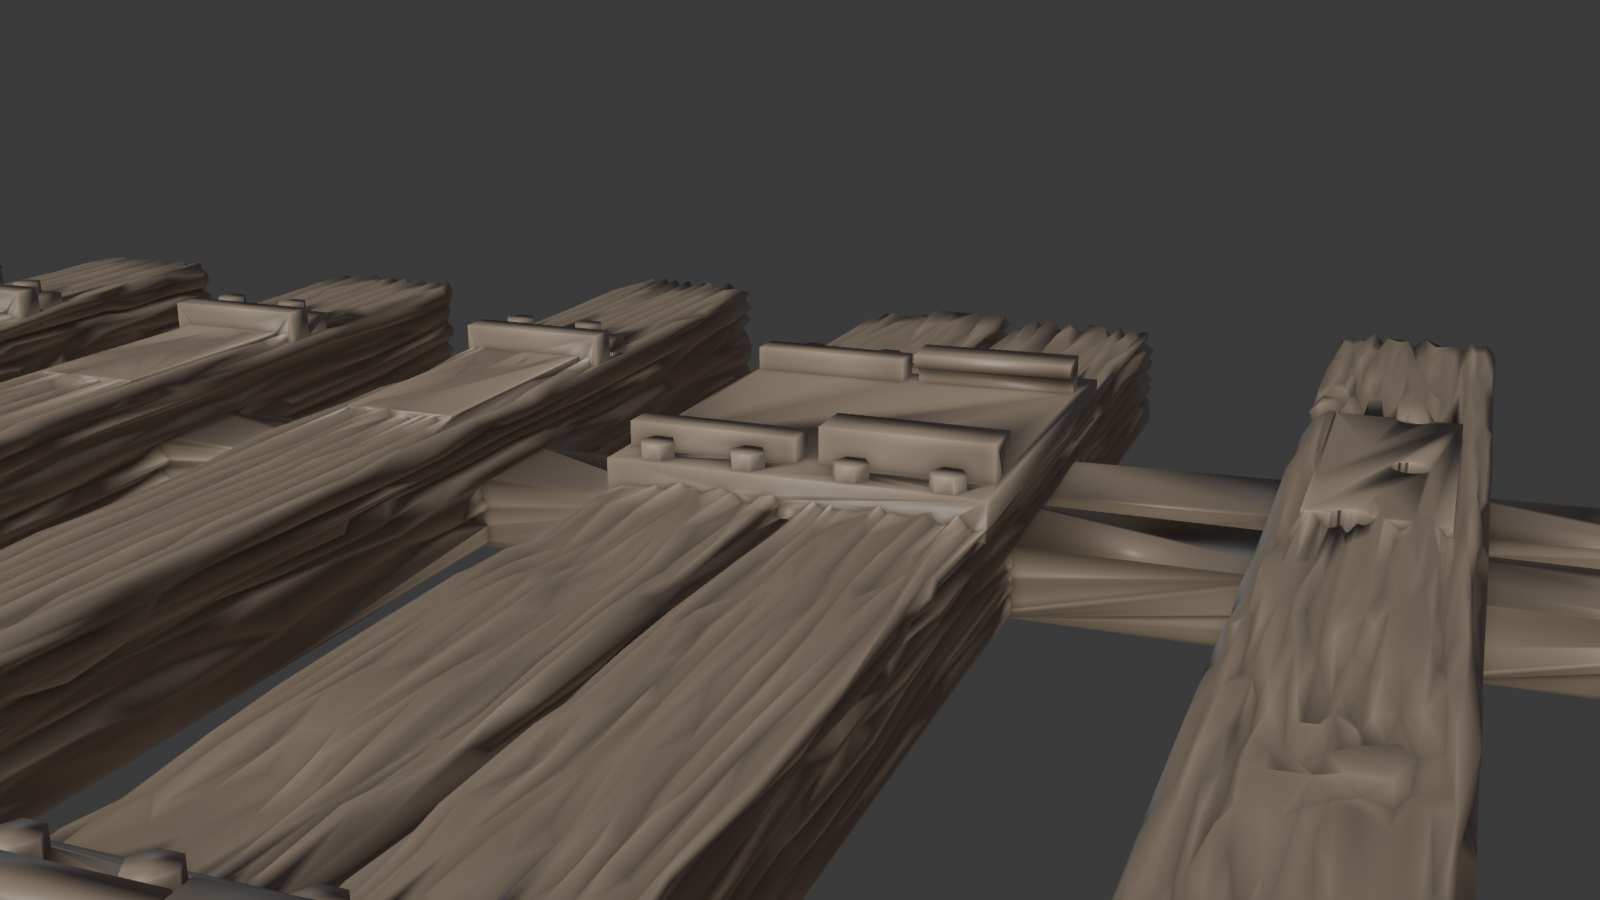
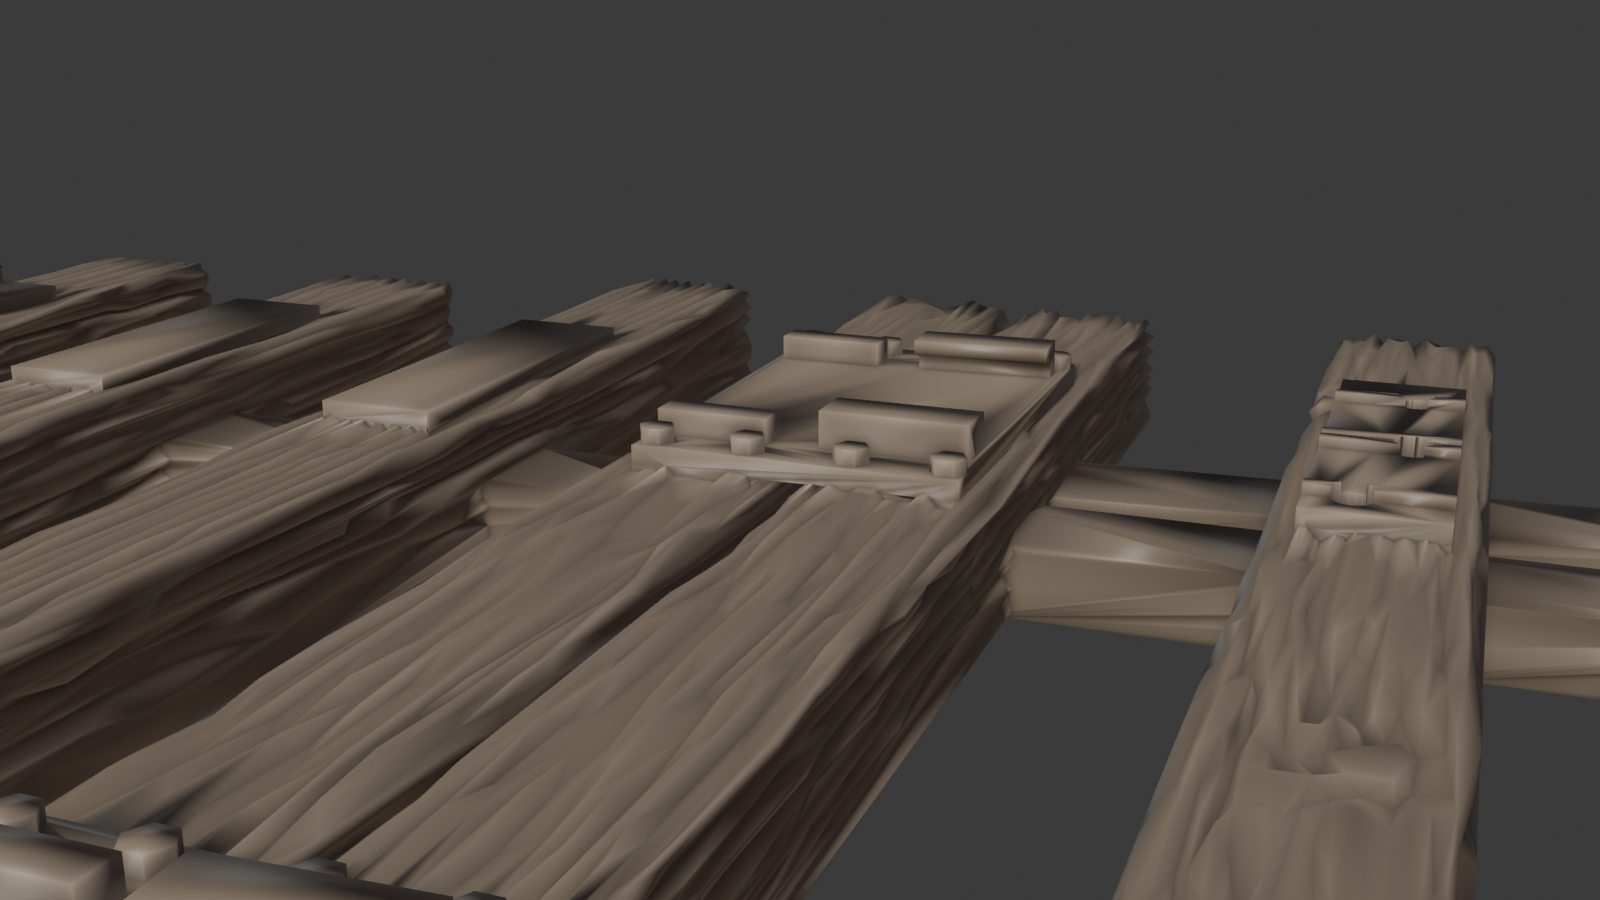
Tie plates sit on top of the ties, narrower than the tie (v0.11.0)
Plates, headblock plates and throw stops were sunk into the tie by the
depth of its top grain, so their sides hung down over the worn, rounded
tie edges and looked wrapped around the tie. Each is now a slab sitting
on the tie top, kept inside the tie's edges, with a hidden footing set in
from the sides that fills the grain beneath it. Tie plates (and the
headblock plates) are kept narrower than the tie so it shows each side;
the Summary shows the width used.

Claude-Session: https://claude.ai/code/session_01FyFJnGRmoKFYLFwSH9wQdR

diff --git a/stub_switch/layout.py b/stub_switch/layout.py
@@ -265,6 +265,7 @@ class Layout:
     plates: list[Box] = field(default_factory=list)
     shoulders: list[Prism] = field(default_factory=list)
     seats: list[Box] = field(default_factory=list)
+    footings: list[Box] = field(default_factory=list)  # fill the grain under plates and stops
     holes: list[Hole] = field(default_factory=list)
     spikes: list[Spike] = field(default_factory=list)
     errors: list[str] = field(default_factory=list)
@@ -437,6 +438,7 @@ def compute(t: Turnout, s: Spec) -> Layout:
 
     longest = max(lay.ties, key=lambda tie: tie.length)
     lay.summary = {
+        "plate_width": min(s.model(s.plate_width), wt - 2 * plate_edge(s, wt)) if s.plates else 0.0,
         "ties": float(len(lay.ties)),
         "tie_length": lt, "tie_width": wt, "tie_height": ht,
         "longest_tie": longest.length, "longest_tie_full": longest.length * s.scale_n,
@@ -453,6 +455,56 @@ def compute(t: Turnout, s: Spec) -> Layout:
         "connector_height": s.connector_height_frac * ht,
     }
     return lay
+
+
+SLAB_SINK = 0.05  # model mm a plate or stop sinks into the tie top, so they join
+
+
+def _edge(s: Spec) -> float:
+    """How far in from a tie's sides and ends parts on top of it stay, model mm.
+
+    The weathered ties' edges are worn round; a part reaching to the edge
+    would hang down over them and look wrapped around the tie.
+    """
+    return max(s.seat_inset - 0.1, 0.05)
+
+
+PLATE_EDGE = 0.12  # of the tie width: tie left showing each side of a plate (about 1 in of 9 in)
+
+
+def plate_edge(s: Spec, wt: float) -> float:
+    """How far in from a tie's sides a plate stays, model mm, so the tie shows each side."""
+    return max(_edge(s) + 0.1, PLATE_EDGE * wt)
+
+
+def _on_tie(s: Spec, lay: Layout, tie: Tie, x0: float, x1: float, y0: float, y1: float,
+            z1: float, embed: float, footing: bool = True) -> Box | None:
+    """A part sitting on ``tie``, kept inside its top: the slab, and a footing under it.
+
+    The slab sinks ``SLAB_SINK`` into the tie top. Below it the footing,
+    set well in from the tie's worn sides and ends, fills the grain down to
+    ``embed`` so the part joins the tie solidly without showing on its sides.
+    Returns the slab (None if nothing of it is left on the tie).
+    """
+    wt, e = lay.tie_width, _edge(s)
+    x0, x1 = max(x0, tie.x - wt / 2 + e), min(x1, tie.x + wt / 2 - e)
+    y0, y1 = max(y0, tie.y0 + e), min(y1, tie.y1 - e)
+    if x1 - x0 <= 1e-6 or y1 - y0 <= 1e-6:
+        return None
+    if footing:
+        _footing(s, lay, tie, x0, x1, y0, y1, embed)
+    return Box(x0, x1, y0, y1, lay.tie_height - tie.lowered - SLAB_SINK, z1)
+
+
+def _footing(s: Spec, lay: Layout, tie: Tie, x0: float, x1: float, y0: float, y1: float,
+             embed: float) -> None:
+    """Fill the tie's grain under a part, set in from the tie's worn sides and ends."""
+    wt, top = lay.tie_width, lay.tie_height - tie.lowered
+    i = max(s.seat_inset, _edge(s) + 0.1)
+    x0, x1 = max(x0, tie.x - wt / 2 + i), min(x1, tie.x + wt / 2 - i)
+    y0, y1 = max(y0, tie.y0 + i), min(y1, tie.y1 - i)
+    if x1 - x0 > 1e-6 and y1 - y0 > 1e-6 and embed > SLAB_SINK:
+        lay.footings.append(Box(x0, x1, y0, y1, top - embed, top - SLAB_SINK + 0.02))
 
 
 def _frame(pts: np.ndarray, x: float) -> tuple[float, float]:
@@ -477,8 +529,8 @@ def _plates(t: Turnout, s: Spec, lay: Layout, lines, tp: float, embed: float) ->
     wt, ht = lay.tie_width, lay.tie_height
     half_foot, cs = s.foot_width / 2, s.shoulder_clearance
     ws, hs = s.model(s.shoulder_width), s.model(s.shoulder_height)
-    if wp > wt:
-        lay.warnings.append(f"Tie plates ({wp:.2f} mm) are wider than the ties ({wt:.2f} mm).")
+    # Plates sit on the tie top, narrower than the tie, so the tie shows each side.
+    wp = min(wp, wt - 2 * plate_edge(s, wt))
     if half_foot > lp / 2 - abs(bias):
         lay.errors.append("The rail foot is wider than the tie plate allows; lengthen the plate "
                           "or reduce the field-side bias.")
@@ -501,7 +553,9 @@ def _plates(t: Turnout, s: Spec, lay: Layout, lines, tp: float, embed: float) ->
         for a, b in merged:
             a, b = max(a, tie.y0), min(b, tie.y1)
             if b - a > 1e-6:
-                lay.plates.append(Box(xa, xb, a, b, ht - embed, ht + tp))
+                plate = _on_tie(s, lay, tie, xa, xb, a, b, ht + tp, embed)
+                if plate:
+                    lay.plates.append(plate)
         if s.shoulders == SHOULDERS_NONE:
             continue
         for ln, pts in lines:
@@ -815,7 +869,7 @@ def _headblock_hardware(t: Turnout, s: Spec, lay: Layout, lines, embed: float) -
         seat = z_plate + tp
         gap = t.half_gap
         u0 = max(gap, std_tie.x - wt / 2) + 0.05  # clips over the fixed rails' tie
-        u1 = std_tie.x + wt / 2 - 0.15
+        u1 = std_tie.x + wt / 2 - plate_edge(s, wt) - 0.1  # inside the plate's end
         a, o = s.spike_shank, s.spike_overhang
         cp, cv, th = s.spike_side_clear, s.spike_top_clear, s.spike_head
         under, z_under, _flat = spike_underside(s, half_foot)
@@ -829,12 +883,14 @@ def _headblock_hardware(t: Turnout, s: Spec, lay: Layout, lines, embed: float) -
         if s.throw_stops:  # standing on the plate, over the long tie
             n0 = len(lay.stops)
             top = max(top, _throw_stops(t, s, lay, long_tie, embed, outside_only=False,
-                                        z0=z_plate - embed))
+                                        z0=z_plate - SLAB_SINK))
             stop_boxes = lay.stops[n0:]
         bs, bh = s.model(s.bolt_size), s.model(s.bolt_height)
         bolt_zone = bs + 0.2 if s.bolts else 0.0  # room at each end of the plate for its bolts
         margin = max(s.plate_margin, bolt_zone)
-        px0, px1 = long_tie.x - wt / 2 + 0.05, std_tie.x + wt / 2 - 0.05
+        e = _edge(s)  # stays inside the double tie's worn edges
+        pe = plate_edge(s, wt)  # and narrower than the ties, like the tie plates
+        px0, px1 = long_tie.x - wt / 2 + pe, std_tie.x + wt / 2 - pe
         for sign in (1, -1):
             pair = sorted((st for st in stubs if st[0] * sign > 0), key=lambda st: abs(st[0]))
             if not pair:
@@ -846,9 +902,11 @@ def _headblock_hardware(t: Turnout, s: Spec, lay: Layout, lines, embed: float) -
             for b in stop_boxes:
                 if (b.y0 + b.y1) / 2 * sign > 0:
                     lo, hi = min(lo, b.y0), max(hi, b.y1)
-            y0 = max(lo - margin, long_tie.y0, std_tie.y0)
-            y1 = min(hi + margin, long_tie.y1, std_tie.y1)
-            lay.hb_plates.append(Box(px0, px1, y0, y1, z_plate - embed, seat))
+            y0 = max(lo - margin, long_tie.y0 + e, std_tie.y0 + e)
+            y1 = min(hi + margin, long_tie.y1 - e, std_tie.y1 - e)
+            lay.hb_plates.append(Box(px0, px1, y0, y1, z_plate - SLAB_SINK, seat))
+            for tie in unit:
+                _footing(s, lay, tie, px0, px1, y0, y1, embed)
             if s.bolts:  # two bolts per tie at each end of the plate, past the clips and stops
                 for yb in (y0 + 0.1 + bs / 2, y1 - 0.1 - bs / 2):
                     for tie in unit:
@@ -893,11 +951,11 @@ def _throw_stops(t: Turnout, s: Spec, lay: Layout, tie: Tie, embed: float,
     h_stop = s.stop_height if s.stop_height > 0 else max(s.foot_web, s.foot_edge, 0.2)
     z1 = lay.seat + h_stop
     on_plate = z0 is not None
-    if z0 is None:
-        z0 = ht - embed
     bs, bh = s.model(s.bolt_size), s.model(s.bolt_height)
     base_t = min(s.model(s.stop_plate_thickness), h_stop / 2)
-    x0, x1 = tie.x - wt / 2 + 0.1, tie.x + wt / 2 - 0.1
+    e = _edge(s)
+    inset = plate_edge(s, wt) + 0.1 if on_plate else max(e, 0.1)  # on the plate: inside it
+    x0, x1 = tie.x - wt / 2 + inset, tie.x + wt / 2 - inset
     for y in (t.rail_y, -t.rail_y):
         outside = 1 if y > 0 else -1  # the field side of this rail
         # (block's near face, away from the rail: -1 below the rail, +1 above it)
@@ -905,17 +963,28 @@ def _throw_stops(t: Turnout, s: Spec, lay: Layout, tie: Tie, embed: float,
             if outside_only and away != outside:
                 continue  # the movable ties get a stop on the rail's outside only
             far = near + away * sw
-            lay.stops.append(Box(x0, x1, max(min(near, far), tie.y0),
-                                 min(max(near, far), tie.y1), z0, z1))
-            if on_plate or not s.bolts:
+            b0, b1 = sorted((near, far))
+            if on_plate:  # standing on the headblock plate
+                lay.stops.append(Box(x0, x1, max(b0, tie.y0 + e), min(b1, tie.y1 - e), z0, z1))
+                continue
+            block = _on_tie(s, lay, tie, x0, x1, b0, b1, z1, embed, footing=not s.bolts)
+            if block is None:
+                continue
+            lay.stops.append(block)
+            if not s.bolts:
                 continue
             # A base plate reaching away from the rail, bolted to the tie. It starts
             # inside the block and stops short of the block's ends, so no faces of the
             # two coincide (touching faces don't join cleanly).
             edge = far + away * (bs + 0.2)
             lo, hi = sorted((far - away * sw / 2, edge))
-            lay.stops.append(Box(x0 + 0.05, x1 - 0.05, max(lo, tie.y0), min(hi, tie.y1),
-                                 ht - embed - 0.01, lay.seat + base_t))
+            base = _on_tie(s, lay, tie, x0 + 0.05, x1 - 0.05, lo, hi, lay.seat + base_t, embed,
+                           footing=False)
+            if base is None:
+                continue
+            # Sunk a little deeper than the block, so their bottoms don't coincide.
+            lay.stops.append(Box(base.x0, base.x1, base.y0, base.y1, base.z0 - 0.01, base.z1))
+            _footing(s, lay, tie, x0, x1, min(b0, lo), max(b1, hi), embed)
             yb = far + away * (0.1 + bs / 2)
             for xb in (tie.x - wt / 4, tie.x + wt / 4):
                 lay.bolts.append(hex_bolt(xb, yb, bs, lay.seat + base_t - 0.02,

diff --git a/tests/test_geometry.py b/tests/test_geometry.py
@@ -334,6 +334,34 @@ class TestLayout(unittest.TestCase):
         yr = self.t.rail_y
         self.assertTrue(any(yr - 1.5 < y < yr for y in on_hb))  # inner rail, gauge side
 
+    def test_plates_sit_on_the_ties(self):
+        """Tie plates sit on top, narrower than the tie; a hidden footing fills the grain."""
+        inset = 0.3  # the worn sides of the weathered ties (side grain depth + 0.1)
+        lay = layout.compute(self.t, ho_ties(plates=True, seat_depth=0.32, seat_pad=True,
+                                             seat_inset=inset))
+        self.assertTrue(lay.ok, lay.errors)
+        wt, ht = lay.tie_width, lay.tie_height
+        pe = layout.plate_edge(ho_ties(seat_inset=inset), wt)
+        self.assertAlmostEqual(lay.summary["plate_width"], wt - 2 * pe)
+        self.assertLess(lay.summary["plate_width"], 7.75 * IN / N)  # narrowed to fit
+        ties = {round(tie.x, 6): tie for tie in lay.ties}
+        for b in lay.plates:
+            tie = ties[round((b.x0 + b.x1) / 2, 6)]
+            self.assertAlmostEqual(b.z0, ht - layout.SLAB_SINK)  # sits on the top
+            self.assertGreaterEqual(b.x0, tie.x - wt / 2 + pe - 1e-9)
+            self.assertLessEqual(b.x1, tie.x + wt / 2 - pe + 1e-9)
+            self.assertGreaterEqual(b.y0, tie.y0 + inset - 0.1 - 1e-9)
+            self.assertLessEqual(b.y1, tie.y1 - inset + 0.1 + 1e-9)
+        self.assertEqual(len(lay.footings), len(lay.plates) + 2 * len(lay.hb_plates))
+        for f in lay.footings:  # well inside the tie, down into the grain, under the slab
+            tie = min(lay.ties, key=lambda tie: abs(tie.x - (f.x0 + f.x1) / 2))
+            self.assertGreaterEqual(f.x0, tie.x - wt / 2 + inset - 1e-9)
+            self.assertLessEqual(f.x1, tie.x + wt / 2 - inset + 1e-9)
+            self.assertAlmostEqual(f.z0, ht - (0.32 + 0.02))
+            self.assertGreater(f.z1, ht - layout.SLAB_SINK)
+        narrow = layout.compute(self.t, ho_ties(plates=True, plate_width=5 * IN))
+        self.assertAlmostEqual(narrow.summary["plate_width"], 5 * IN / N)  # left as set
+
     def test_headblock_plate_and_stops(self):
         """One headblock unit per side across the double tie: plate, four clips, stops."""
         t, lay = self.t, layout.compute(self.t, ho_ties())
@@ -348,8 +376,10 @@ class TestLayout(unittest.TestCase):
         for b in lay.hb_plates:
             self.assertAlmostEqual(b.z1, ht)  # plate top level with the other ties' tops
             # One unit spanning the double tie, centred on the headblock.
-            self.assertAlmostEqual(b.x0, long_tie.x - wt / 2 + 0.05)
-            self.assertAlmostEqual(b.x1, std_tie.x + wt / 2 - 0.05)
+            pe = layout.plate_edge(ho_ties(), wt)  # narrower than the ties, like tie plates
+            self.assertAlmostEqual(b.x0, long_tie.x - wt / 2 + pe)
+            self.assertAlmostEqual(b.x1, std_tie.x + wt / 2 - pe)
+            self.assertAlmostEqual(b.z0, ht - tp - layout.SLAB_SINK)  # on the lowered ties
             self.assertAlmostEqual(b.x0 + b.x1, 0.0)
         self.assertEqual(len(lay.clips), 4)
         for c in lay.clips:  # over the fixed rails' tie only

diff --git a/stub_switch/ui.py b/stub_switch/ui.py
@@ -207,6 +207,11 @@ class STUBSWITCH_PT_main(_Panel, bpy.types.Panel):
                        f"{m['top']:.2f} mm")
         box.label(text=f"{len(lay.ties)} ties, longest {m['longest_tie']:.1f} mm "
                        f"({scales.feet_inches(m['longest_tie_full'])})")
+        if s.plates_on and m.get("plate_width"):
+            wp = m["plate_width"]
+            narrowed = wp < s.full_mm("plate_width") / n - 1e-6
+            box.label(text=f"Tie plates {wp:.2f} mm wide ({scales.feet_inches(wp * n)})"
+                           + (", narrowed to fit the ties" if narrowed else ""))
         if lay.split_x is not None:
             n_mov = sum(1 for tie in lay.ties if tie.x < lay.split_x)
             box.label(text=f"Two pieces: {n_mov} ties movable, {len(lay.ties) - n_mov} fixed, "

diff --git a/stub_switch/build.py b/stub_switch/build.py
@@ -373,6 +373,7 @@ def generate(context, progress=None) -> BuildResult:
                                           + (lay.tabs if k == 1 else []))),
             ("RailSeats", meshgen.boxes([b for b in lay.seats if side(b.x0) == k])),
             ("TiePlates", meshgen.boxes([b for b in lay.plates if side(b.x0) == k])),
+            ("Footings", meshgen.boxes([b for b in lay.footings if side(b.x0) == k])),
             ("Shoulders", meshgen.prisms([b for b in lay.shoulders
                                           if side(b.outline[0][0]) == k])),
             ("Spikes", meshgen.spikes([sp for sp in lay.spikes if side(sp.cx) == k])),

diff --git a/README.md b/README.md
@@ -14,7 +14,7 @@ All four add-ons are installed and enabled:
 
 ## Install
 
-In Blender, open Edit > Preferences > Get Extensions, choose "Install from Disk" in the menu at the top right, and pick `dist/stub_switch-0.10.1.zip`. The panel is in the 3D Viewport sidebar (N), **Stub Switch** tab.
+In Blender, open Edit > Preferences > Get Extensions, choose "Install from Disk" in the menu at the top right, and pick `dist/stub_switch-0.11.0.zip`. The panel is in the 3D Viewport sidebar (N), **Stub Switch** tab.
 
 ## Use
 
@@ -25,7 +25,7 @@ The **i** button in the Stub Switch panel's header turns the informational lines
 2. **Frog and Track.** Pick a **frog preset** from Switch Frog Generator. It sets the frog number (the angle of the turnout), the flangeway, the frog's length and the rail profile, and the scale follows it. Choose **Left Hand** or **Right Hand**, the **Movable Rail Length** (15 to 24 ft on the prototype; longer rails make a gentler, longer turnout) and the **Throw** (Auto puts the straight and diverging rail ends side by side at the headblock). **Guard Rails** are on by default: they are a little shorter than the frog (the frog reaches **Frog Past Guard Rail**, 12 in, beyond each end; or choose Custom and enter a length), and each end bends in toward the middle of the track (**Bend Length** and **Bend Angle**).
 3. **Ties.** Choose **Board Object** and pick your template tie (or click the eyedropper with the board selected), or choose **Board Preset**. Its look, width and thickness are used for every tie and its length is the standard tie length. Set the spacing, how many **Approach Ties** come before the heel of the movable rails and how many **Ties Past Frog**, the **Length Step** that long ties are rounded up to (6 in on the prototype), and the **Headblock Ties**, lengthened on the switch stand side. The headblock, where the movable rails meet the fixed rails, sits on a **double tie**: the long headblock tie under the movable rails' ends and a standard tie right next to it under the fixed rails' ends, **Double Tie Gap** apart (1/2 in) and centred on the headblock. The two long headblock ties are one tie width apart by default; untick **Gap = Tie Width** to enter your own gap.
 4. **Strip:** **Two Pieces** (on by default) prints the tie strip as two pieces, the movable rail section and the fixed rail section, meeting in the gap just before the double tie (or before both long headblock ties). In that gap each connector becomes a **tab** on the movable piece that fits a **socket** in the fixed piece's headblock tie, open at the bottom, so the pieces line up square and can be glued. Set the **Tab Depth** (1 mm) and the **Joint Clearance** (0.1 mm, more for FDM). The two ties at the joint get no random offset or angle, so the tabs always fit.
-5. **Spikes:** Spike Holes, Printed Spikes, or None. **Tie Plates** as needed (the same era presets as Tie Strip).
+5. **Spikes:** Spike Holes, Printed Spikes, or None. **Tie Plates** as needed (the same era presets as Tie Strip). Tie plates sit on top of the ties, a little narrower than the tie, so some tie shows on each side of every plate: a plate wider than that (about 76% of the tie width, after allowing for the worn tie edges) is narrowed to fit, and the Summary shows the width used. Under each plate a hidden footing, set in from the tie's sides, fills the wood grain so the plate prints solidly joined to the tie. The headblock plates and throw stops sit on the ties the same way.
    **Headblock** (separate from the tie plates, so it works with or without them): The headblock is one unit on each side of the track, centred on the double tie. **Headblock Plates** put a plate across both ties of the double tie under each pair of rail ends (straight and diverging, side by side). Over the standard tie, L-shaped clips run along the inside and outside of the pair, with lips that reach over the rail feet and hold the rail ends in line; the clips use the printed spike sizes in the Spikes panel. The movable rail tips slide on the plate over the long tie. With tie plates on, the headblock plate is as thick as the tie plates; with them off, both ties of the double tie are made thinner by the plate's thickness so all the rails lie level. **Throw Stops** put a block on each side of each movable rail over the long tie, standing on the headblock plate (or, with the plate off, on the tie on bolted bases), just clear of the rail foot at both ends of its travel, so the rails can't be pushed past either route. Tick **On Every Movable Tie** to also put a bolted throw stop on the outside of each movable rail on every tie under the movable rails, from the heel to the headblock, set to the rail's travel at that tie (the stops on the headblock unit stay on both sides of the rail). With **Bolts** on (the default), hex bolt heads fasten the hardware to the ties: two per tie at each end of each headblock plate, past the clips and stops, and two on a thin base plate under each throw stop that stands on its own. Set the **Bolt Head Size** (across the flats, 1-1/2 in) and **Bolt Head Height** (3/4 in).
 6. **Rail and Frog:** tick **Include Rail** to lay all the rails (set for the straight or diverging route) and **Include Frog** to lay the frog, both parented to the tie strip, to check the fit and for renders. With **Frog Heel Rails** on (the default), each route leaving the frog's heel starts with a short rail as long as the guard rails, so the frog and its heel rails can be laid as one piece; the rest of the rail carries on from there.
 7. **Generate Stub Switch** and check the Summary. **Include Frog** also adds the guard rails, even with Include Rail off.
